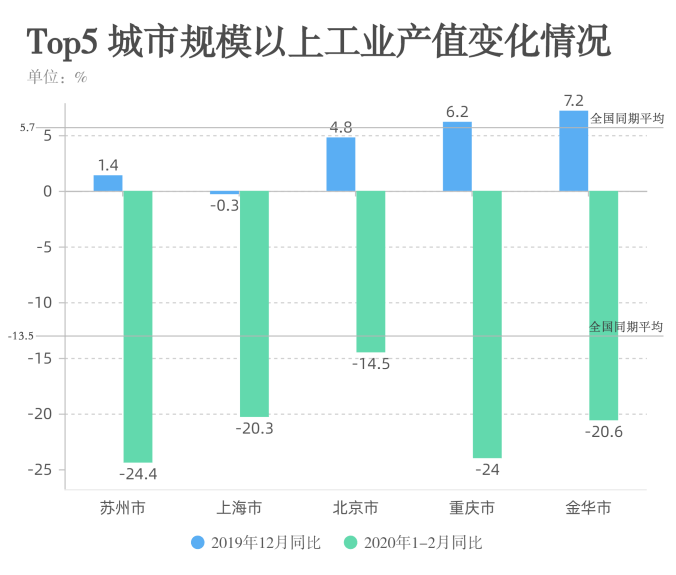
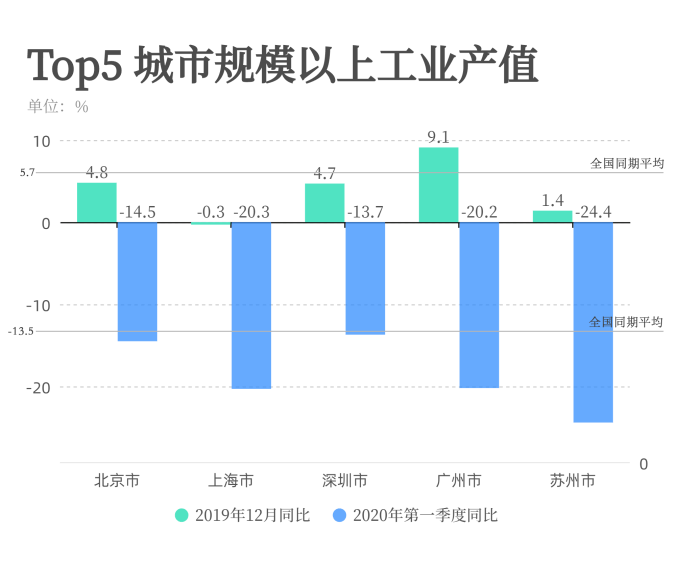
21th

diff --git a/index.html b/index.html
@@ -56,7 +56,7 @@
     </nav>
 </section>
 
-<section class="engine"><a href="https://mobirise.info/n">free simple site templates</a></section><section class="cid-rVg9WtZVVA" id="header2-0">
+<section class="engine"><a href="https://mobirise.info/k">develop own website</a></section><section class="cid-rVg9WtZVVA" id="header2-0">
 
     
 
@@ -287,7 +287,7 @@
                 <div class="align-left aside-content">
                     
                     <div class="mbr-section-text">
-                        <p class="mbr-text text1 pt-2 mbr-light mbr-fonts-style display-7"><br>在所抓取的4647份法律文书中，2018年、2019年和2020年的文书分别有3962份、441份、71份，其他年份文书共 173份。主要文书类型为通知书、决定书、裁定书。<br><br>这些法律文书包括：受理债权人/债务人的破产清算申请；受理债务人提出的重整申请[1]；批准重整计划草案[2]；指定破产管理人[3]；关联企业合并破产裁定书；终结破产程序；终结强制清算程序；认可破产财产分配方案；宣告债务人破产；等等。<br><br><em>[1] 破产</em><strong>：</strong><em>指债务人因不能偿债或者资不抵债时，由债权人或债务人诉请法院宣告破产并依破产程序偿还债务的一种法律制度。</em><br><em>[2]&nbsp;重整</em><strong>：</strong><em>指债权人申请对债务人进行破产清算的，可以向人民法院申请重整，即对该企业进行重新整顿、调整。即不对无偿付能力债务人的财产进行立即清算，而是在法院主持下制定重组计划，规定在一定期限内债务人按一定方式全部或部分清偿债务，同时债务人可以继续经营其业务的制度。</em><br><em>[3] </em>破产管理人：指破产案件中，在法院的指挥和监督之下全面接管破产财产<em>并负责对其进行保管、清理、估价、处理和分配的专门机构。</em><br><br></p>
+                        <p class="mbr-text text1 pt-2 mbr-light mbr-fonts-style display-7"><br>在所抓取的4647份法律文书中，2018年、2019年和2020年的文书分别有3962份、441份、71份，其他年份文书共 173份。主要文书类型为通知书、决定书、裁定书。<br><br>这些法律文书包括：受理债权人/债务人的破产清算申请；受理债务人提出的重整申请[1]；批准重整计划草案[2]；指定破产管理人[3]；关联企业合并破产裁定书；终结破产程序；终结强制清算程序；认可破产财产分配方案；宣告债务人破产；等等。<br><br><em>[1] 破产</em><strong>：</strong><em>指债务人因不能偿债或者资不抵债时，由债权人或债务人诉请法院宣告破产并依破产程序偿还债务的一种法律制度。</em><br><em>[2]&nbsp;重整</em><strong>：</strong><em>指债权人申请对债务人进行破产清算的，可以向人民法院申请重整，即对该企业进行重新整顿、调整。即不对无偿付能力债务人的财产进行立即清算，而是在法院主持下制定重组计划，规定在一定期限内债务人按一定方式全部或部分清偿债务，同时债务人可以继续经营其业务的制度。</em><br><em>[3] 破产管理人：指破产案件中，在法院的指挥和监督之下全面接管破产财产并负责对其进行保管、清理、估价、处理和分配的专门机构。</em><br><br></p>
                         
                     </div>
                     <!--Btn-->
@@ -396,7 +396,7 @@
 
     <figure class="mbr-figure container">
         <div class="image-block" style="width: 66%;">
-           <iframe  width='900' height='600' frameBorder='0' src='https://g.dituhui.com/apps/range/viewMap/2c9085177203699e0172214755474399'></iframe>
+            <iframe  width='900' height='600' frameBorder='0' src='https://g.dituhui.com/apps/range/viewMap/2c9085177203699e0172214755474399'></iframe>
             
         </div>
     </figure>
@@ -410,7 +410,7 @@
         <div class="media-container-row">
             <div class="mbr-text col-12 mbr-fonts-style display-7 col-md-8"><p>从全国范围来看，疫情期间申请破产/重整、宣告破产的企业集中于<strong>东部和南部地区</strong>。 
 </p><p>北京市（390家）、上海市（233家）、深圳市（225家）、广州市（180家）、苏州市（146家）五个地区位列申请破产或重整企业数量最多的地区前五名。
-</p><p>其中，新疆阿勒泰地区青河县有12家矿业公司扎堆申请破产。青河县矿产资源丰富，已发现煤、铁、金、银、锂、铀及宝石、白云母等矿种，拥有2000吨/日金选厂生产线。&nbsp;</p></div>
+</p><p>其中，新疆阿勒泰地区青河县有12家矿业公司扎堆申请破产。青河县是西北地区矿产大县，已发现煤、铁、金、银、锂、铀及宝石、白云母等矿种，拥有2000吨/日金选厂生产线。&nbsp;</p></div>
         </div>
     </div>
 </section>
@@ -426,19 +426,57 @@
         <div class="col-md-12">
             <div class="media-container-row">
                 <div class="mbr-figure" style="width: 50%;">
-                    <img src="assets/images/-952x780.png" alt="Mobirise" title="">
+                    <img src="assets/images/-952x677.png" alt="Mobirise" title="">
                 </div>
                 <div class="align-left aside-content">
-                    <h2 class="mbr-title pt-2 mbr-fonts-style display-4">一二三线城市分布不均<strong>【数据待更新】</strong></h2>
+                    <h2 class="mbr-title pt-2 mbr-fonts-style display-4">一二三线城市分布不均</h2>
                     <div class="mbr-section-text">
                         <p class="mbr-text text1 pt-2 mbr-light mbr-fonts-style display-7">
-                            <br>从一线、二线、三线及以下城市进行划分，破产（重整）企业的分布存在着显著的不平衡，倾向于分布在一线城市。出现破产（重整）企业的一线城市有17个，总计的破产（重整）企业数量为523家，远超86个三线及三线以下城市中的总计破产（重整）企业数量。<br><br>*注：这里的城市仅为我们所抓取信息中涉及的城市；“一线城市”除北上广深外包含15个新一线城市（成都、杭州、重庆、武汉、西安、苏州、天津、南京、长沙、郑州、东莞、青岛、沈阳、宁波、昆明）。</p>
+                            <br>从一二三线城市维度来看，破产（重整）企业的分布存在着显著的不平衡，倾向于分布在一线城市。在18个一线城市中，破产（重整）企业数量为1565家，占总体企业比重45.55%；而在183个三线及三线以下城市中，所分布的破产（重整）企业仅为1056家。<br><br>*注：这里的城市仅为我们所抓取信息中涉及的城市；“一线城市”除北上广深外包含15个新一线城市（成都、杭州、重庆、武汉、西安、苏州、天津、南京、长沙、郑州、东莞、青岛、沈阳、宁波、昆明）。</p>
                         
                     </div>
                     <!--Btn-->
                     
                 </div>
             </div>
+        </div>
+    </div>
+</section>
+
+<section class="mbr-section content4 cid-s00vVlmG4i" id="content4-37">
+
+    
+
+    <div class="container">
+        <div class="media-container-row">
+            <div class="title col-12 col-md-8">
+                <h2 class="align-center pb-3 mbr-fonts-style display-4">破产企业数量与城市GDP存在线性相关</h2>
+                
+                
+            </div>
+        </div>
+    </div>
+</section>
+
+<section class="cid-s00vLSFQKw" id="image1-35">
+
+    
+
+    <figure class="mbr-figure container">
+        <div class="image-block" style="width: 60%;">
+            <iframe src="https://www.dycharts.com/show/c_051930bcf3622f2f9481e68cdbe9d279" width="600" height="550" scrolling="no" frameborder="0" align=""></iframe>
+            
+        </div>
+    </figure>
+</section>
+
+<section class="mbr-section article content1 cid-s00vNJKFrH" id="content1-36">
+    
+     
+
+    <div class="container">
+        <div class="media-container-row">
+            <div class="mbr-text col-12 mbr-fonts-style display-7 col-md-8"><p>将上述230个城市的2019年GDP总量（横轴x）与所在地的破产（重整）企业数量（纵轴y）进行比对，我们发现，两者之间存在着良好的线性关系。散点图的回归直线方程为y=0.0063x-7.9425，决定系数R²=0.6245，即能够在62.46%的程度上说明破产（重整）企业数量与当地经济状况存在正相关性，经济越发达，则该地破产（重整）企业数量越多。</p></div>
         </div>
     </div>
 </section>
@@ -509,8 +547,8 @@
     
 
     <figure class="mbr-figure container">
-        <div class="image-block" style="width: 52%;">
-            <iframe src="https://www.dycharts.com/show/c_23b1271cf57e2d3b67c3935115f017c3" width="600" height="475" scrolling="no" frameborder="0" align=""></iframe>
+        <div class="image-block" style="width: 56%;">
+            <iframe src="https://www.dycharts.com/show/c_23b1271cf57e2d3b67c3935115f017c3" width="600" height="540" scrolling="no" frameborder="0" align=""></iframe>
             
         </div>
     </figure>
@@ -698,8 +736,8 @@
     
 
     <figure class="mbr-figure container">
-        <div class="image-block" style="width: 52%;">
-            <iframe src="https://www.dycharts.com/show/c_96bf915ee6a97aa186b1f0b6292027f7" width="600" height="470" scrolling="no" frameborder="0" align=""></iframe>
+        <div class="image-block" style="width: 56%;">
+            <iframe src="https://www.dycharts.com/show/c_96bf915ee6a97aa186b1f0b6292027f7" width="600" height="530" scrolling="no" frameborder="0" align=""></iframe>
             
         </div>
     </figure>
@@ -733,7 +771,7 @@
                     <h2 class="mbr-title pt-2 mbr-fonts-style display-4">长生生物：疫苗龙头企业轰然倒下</h2>
                     <div class="mbr-section-text">
                         <p class="mbr-text text1 pt-2 mbr-light mbr-fonts-style display-7">
-                            <br>在提起破产/重整或宣告破产的1022家企业中，长春长生生物科技有限责任公司的名字格外引人注目——该公司就是2018年轰动全国的“问题疫苗”案件主角。<br><br>长春长生生物科技有限责任公司，成立于1992年8月，旗下研发和生产的疫苗产品囊括冻干水痘减毒活疫苗、冻干人用狂犬疫苗（Vero细胞）、冻干甲型肝炎减毒活疫苗、流行性感冒裂解疫苗、吸附无细胞百白破联合疫苗、ACYW135群脑膜炎球菌多糖疫苗等，被称为国内疫苗界“巨头中的巨头”。<br><br>2018年7月11日前，长生生物内部生产车间老员工的实名举报信送达国家药品监督管理局。7月21日，自媒体“兽爷”的文章《疫苗之王》刷爆社交媒体，引发问题疫苗事件全民关注。长生生物这一国内疫苗龙头企业，开始轰然倒塌。<br></p>
+                            <br>在提起破产/重整或宣告破产的1022家企业中，长春长生生物科技有限责任公司的名字格外引人注目——该公司就是2018年轰动全国的“问题疫苗”案件主角。<br><br>长春长生生物科技有限责任公司，成立于19 92年8月，旗下研发和生产的疫苗产品囊括冻干水痘减毒活疫苗、冻干人用狂犬疫苗（Vero细胞）、冻干甲型肝炎减毒活疫苗、流行性感冒裂解疫苗、吸附无细胞百白破联合疫苗、ACYW135群脑膜炎球菌多糖疫苗等，被称为国内疫苗界“巨头中的巨头”。<br><br>2018年7月11日前，长生生物内部生产车间老员工的实名举报信送达国家药品监督管理局。7月21日，自媒体“兽爷”的文章《疫苗之王》刷爆社交媒体，引发问题疫苗事件全民关注。长生生物这一国内疫苗龙头企业，开始轰然倒塌。<br></p>
                         
                     </div>
                     <!--Btn-->
@@ -803,7 +841,7 @@
     <div class="container">
         <div class="media-container-row">
             <div class="title col-12 col-md-8">
-                <h2 class="align-center pb-3 mbr-fonts-style display-4"><strong>1. 受创的城市经济【待更正】</strong></h2>
+                <h2 class="align-center pb-3 mbr-fonts-style display-4"><strong>1. 受创的城市经济</strong></h2>
                 
                 
             </div>
@@ -866,8 +904,8 @@
 
     <div class="container">
         <div class="media-container-row">
-            <div class="mbr-text col-12 mbr-fonts-style display-7 col-md-8"><p>我们选取了上述样本中破产（重整）企业数量最高的五个城市：苏州、上海、北京、重庆、金华，分别对它们的城市规模以上工业产值[1]、城市固定资产投资[2]、城市社会消费品零售总额[3]这三项数据在近年1-2月和去年12月的同比增速状况进行了比较。</p><p>除上海市外，苏州市、北京市、重庆市、金华市去年12月的规模以上工业产值、固定资产投资、社会消费品零售总额同比均为正增长；今年1-2月，五个城市的这三项数据同比均出现负增长。其中，苏州市规模以上工业产值的同比负增长最大，达-24.4%；重庆市固定资产投资及社会消费品零售总额的同比负增长最大，分别达到-44%和-24.7%。五个城市的工业规模以上产值同比缩水均超过了全国同期平均值（-13.5%）。</p><p><em>[1]</em><strong> </strong><em>规模以上工业：统计范围为主营业务收入
-</em><span style="font-style: italic; font-size: 1rem;">2000万元及以上工业企业。</span></p><p><em>[2] </em><em>固定资产投资：<span style="font-size: 1rem;">企业在一定时期内建造和购置固定资产的工作量以及与此有关的费用变化情况。包</span></em><span style="font-style: italic; font-size: 1rem;">括房产、建筑物、机器、机械、运输工具、以及企业用于基本建设、更新改造、大修理和其他固定资产投资等。</span></p><p><em>[3]</em> <em>社会消费品零售总额：企业（单位）通过交易售给个人、社会集团，非生产、非经营用的实物商品金额，以及提供餐饮服务所取得的收入金额。</em></p></div>
+            <div class="mbr-text col-12 mbr-fonts-style display-7 col-md-8"><p>我们选取了上述样本中破产（重整）企业数量最高的五个城市：北京、上海、深圳、广州、苏州，分别对它们的城市规模以上工业产值[1]、城市固定资产投资[2]、城市社会消费品零售总额[3]这三项指标在2020年第一季度和2019年12月的<strong>同比增速状况</strong>进行了比较。</p><p>相较于2019年12月，五个城市在2020年第一季度的规模以上工业产值、固定资产投资和社会消费品零售总额<strong>均出现不同程度的同比增速下降</strong>，其中规模以上工业产值同期降速超过全国同期平均值，其他两项降速略低于全国同期平均值。</p><p>三项指标中，同比增速下降值最大的城市分别为：规模以上工业产值—广州市（29.3%）；固定资产投资—深圳市（34.9%）；社会消费品总额—深圳市（29.6%）。</p><p><em>[1]</em><strong> </strong><em>规模以上工业：统计范围为主营业务收入
+</em><span style="font-size: 1rem; font-style: italic;">2000万元及以上工业企业。</span></p><p><em>[2] </em><em>固定资产投资：<span style="font-size: 1rem;">企业在一定时期内建造和购置固定资产的工作量以及与此有关的费用变化情况。包</span></em><span style="font-style: italic; font-size: 1rem;">括房产、建筑物、机器、机械、运输工具、以及企业用于基本建设、更新改造、大修理和其他固定资产投资等。</span></p><p><em>[3]</em> <em>社会消费品零售总额：企业（单位）通过交易售给个人、社会集团，非生产、非经营用的实物商品金额，以及提供餐饮服务所取得的收入金额。</em></p></div>
         </div>
     </div>
 </section>
@@ -1094,16 +1132,16 @@
                         参考资料：</h2>
                 </div>
                 <div class="clearfix"></div>
-                <div id="bootstrap-accordion_42" class="panel-group accordionStyles accordion" role="tablist" aria-multiselectable="true">
+                <div id="bootstrap-accordion_44" class="panel-group accordionStyles accordion" role="tablist" aria-multiselectable="true">
                     <div class="card">
                         <div class="card-header" role="tab" id="headingOne">
-                            <a role="button" class="panel-title collapsed text-black" data-toggle="collapse" data-core="" href="#collapse1_42" aria-expanded="false" aria-controls="collapse1">
+                            <a role="button" class="panel-title collapsed text-black" data-toggle="collapse" data-core="" href="#collapse1_44" aria-expanded="false" aria-controls="collapse1">
                                 <h4 class="mbr-fonts-style display-5">
                                     <span class="sign mbr-iconfont mbri-arrow-down inactive"></span>
                                     点击展开</h4>
                             </a>
                         </div>
-                        <div id="collapse1_42" class="panel-collapse noScroll collapse " role="tabpanel" aria-labelledby="headingOne" data-parent="#bootstrap-accordion_42">
+                        <div id="collapse1_44" class="panel-collapse noScroll collapse " role="tabpanel" aria-labelledby="headingOne" data-parent="#bootstrap-accordion_44">
                             <div class="panel-body p-4">
                                 <p class="mbr-fonts-style panel-text display-7">1. 2020年第一季度各项经济数据
 <br>

diff --git a/assets/mobirise/css/mbr-additional.css b/assets/mobirise/css/mbr-additional.css
@@ -1672,6 +1672,47 @@ section.lazy-placeholder:after {
   text-decoration: line-through;
   color: #767676;
 }
+.cid-s00vVlmG4i {
+  padding-top: 30px;
+  padding-bottom: 15px;
+  background-color: #ffffff;
+}
+.cid-s00vVlmG4i .mbr-section-subtitle {
+  color: #767676;
+}
+.cid-s00vLSFQKw {
+  background: #ffffff;
+  padding-top: 30px;
+  padding-bottom: 60px;
+}
+.cid-s00vLSFQKw .image-block {
+  margin: auto;
+}
+.cid-s00vLSFQKw figcaption {
+  position: relative;
+}
+.cid-s00vLSFQKw figcaption div {
+  position: absolute;
+  bottom: 0;
+  width: 100%;
+}
+@media (max-width: 768px) {
+  .cid-s00vLSFQKw .image-block {
+    width: 100% !important;
+  }
+}
+.cid-s00vNJKFrH {
+  padding-top: 0px;
+  padding-bottom: 30px;
+  background-color: #ffffff;
+}
+.cid-s00vNJKFrH .mbr-text,
+.cid-s00vNJKFrH blockquote {
+  color: #767676;
+}
+.cid-s00vNJKFrH .mbr-text {
+  color: #232323;
+}
 .cid-rVWZujr3Kf {
   padding-top: 45px;
   padding-bottom: 0px;
